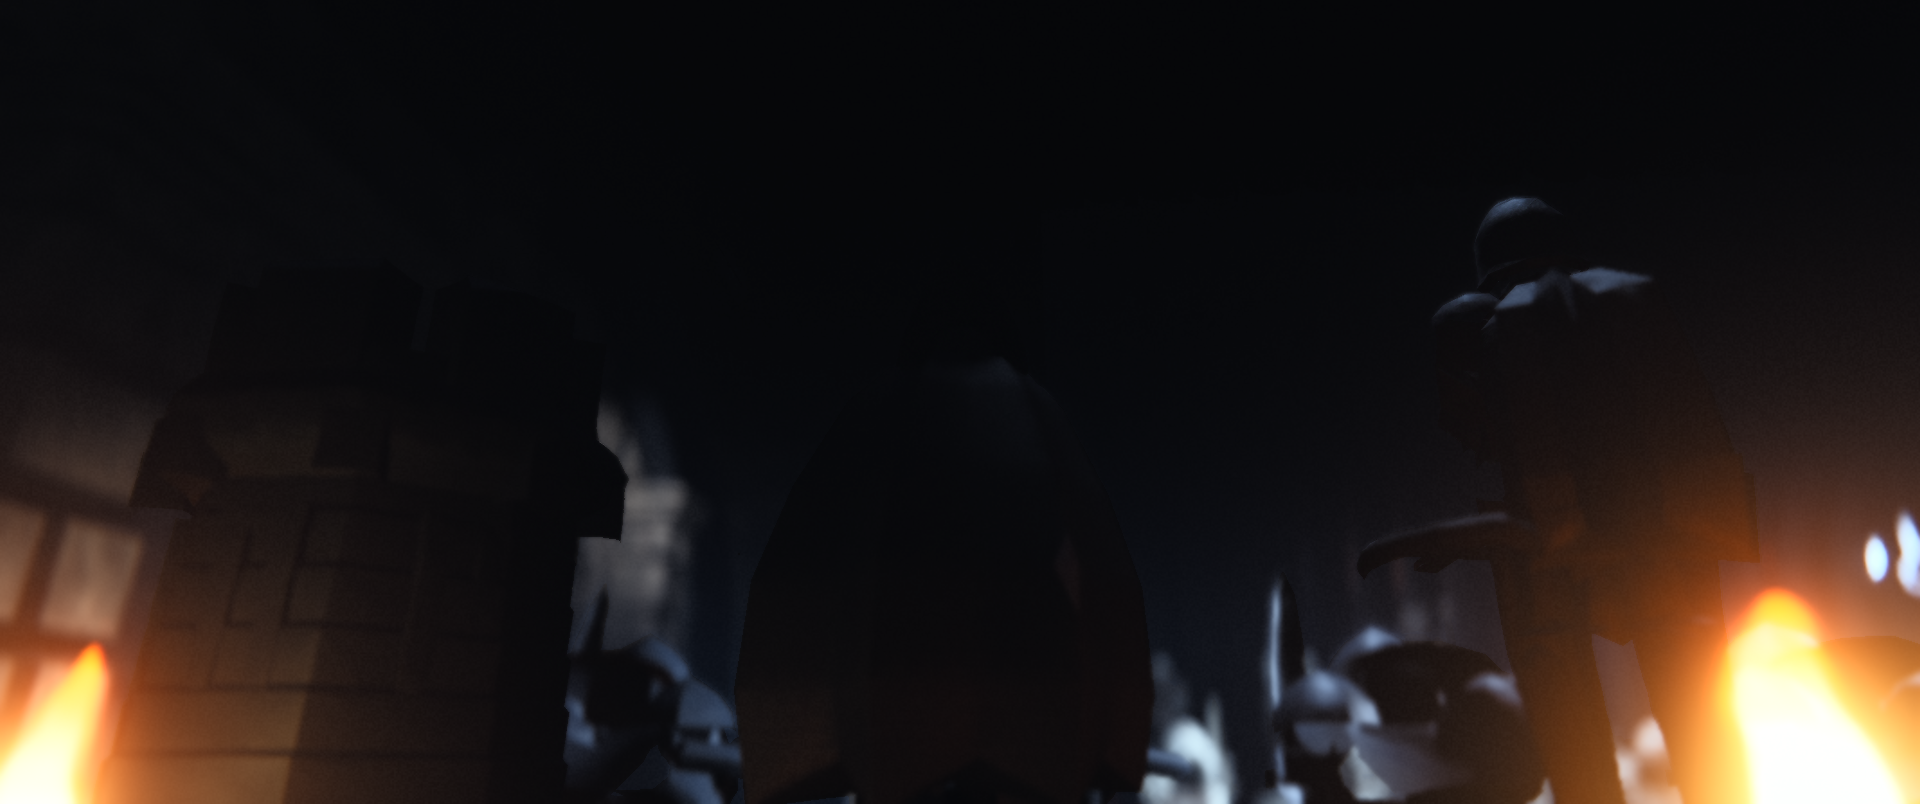
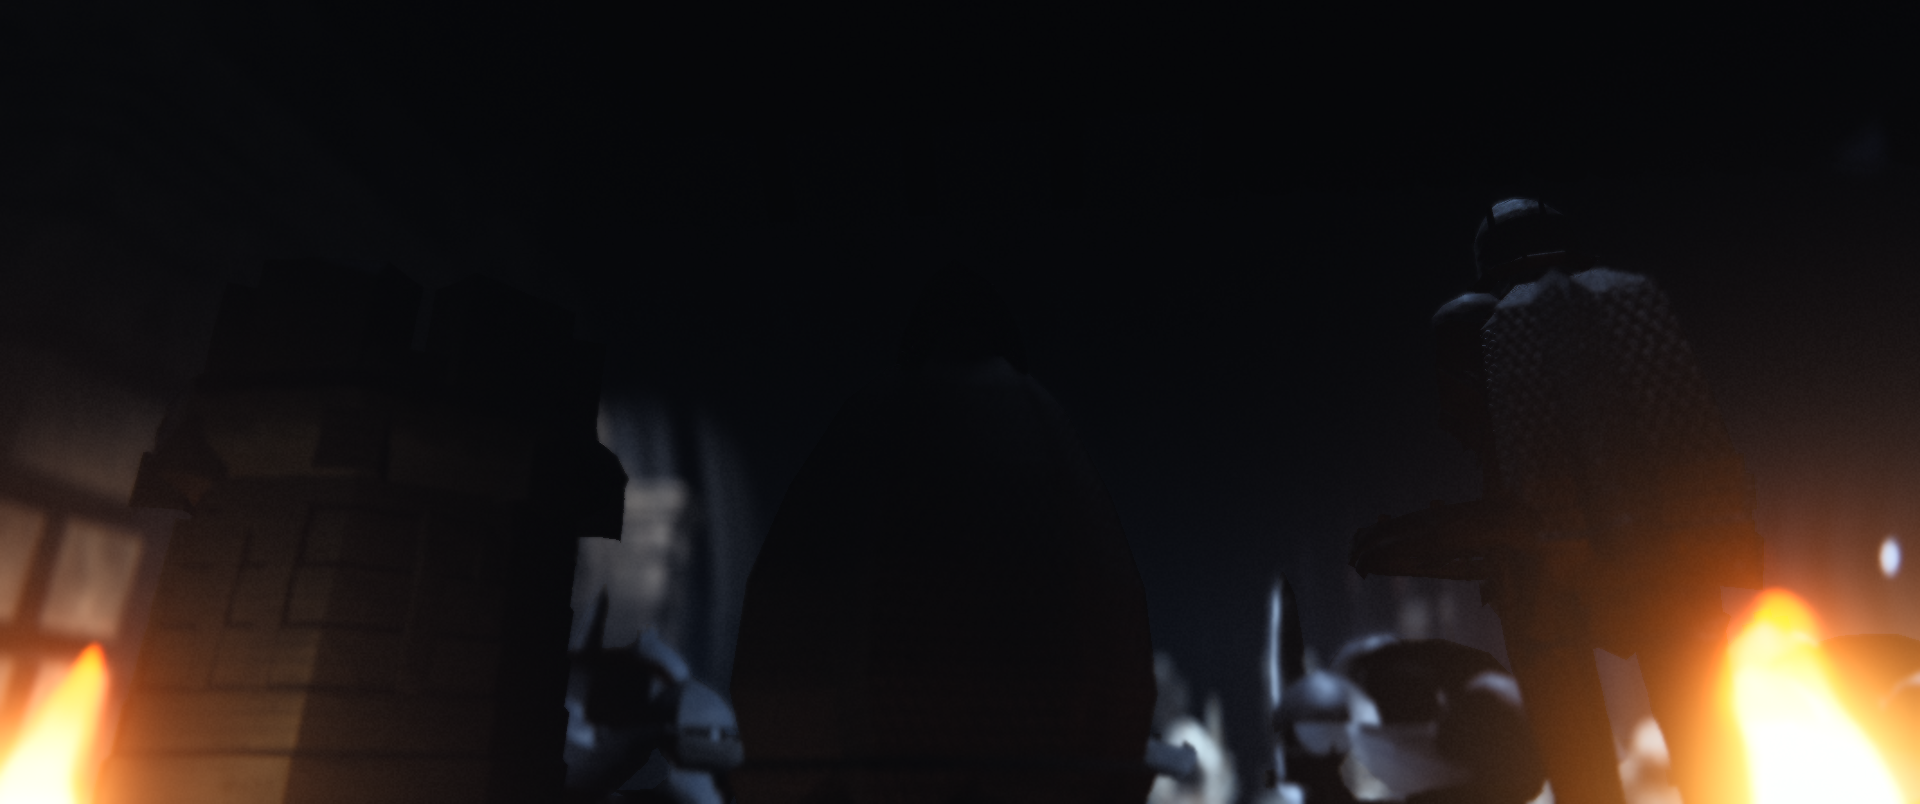
Agent output from rounds in flight
Claude-Session: https://claude.ai/code/session_01YJAdescyxgmhR6GChLDgdh

diff --git a/src/game/interactive.ts b/src/game/interactive.ts
@@ -37,7 +37,7 @@ import type { World } from '../core/world';
 import { RENDER, SQUARE, type PieceType, type Side } from '../core/constants';
 import type { Engine, Move } from '../chess';
 import { STRIKE_CONTACT, STRIKE_RECOVER, WALK_MIN, WALK_PER_SQUARE } from './timeline';
-import { createAffordances, type Mark } from './affordances';
+import { createAffordances, type Affordances, type Mark } from './affordances';
 import { createThinker, type Thought } from './thinker';
 
 /** The human plays White. The engine answers as Black. */
@@ -87,10 +87,30 @@ const TYPE_OF_PROMO: Record<string, PieceType> = {
   q: 'queen', r: 'rook', b: 'bishop', n: 'knight',
 };
 
+/** Everything the markers do, doing nothing. Used only if the real ones fail to build. */
+function nullAffordances(): Affordances {
+  return {
+    group: new THREE.Group(),
+    setSelection() {}, setDestinations() {}, refuse() {}, setCheck() {},
+    setGameOver() {}, showPromotion: () => [], hidePromotion() {},
+    pickables: () => [], update() {}, dispose() {},
+  };
+}
+
 export function createInteractive(world: World, deps: GameDeps, model: BoardModel): Interactive {
   const { engine, state } = model;
-  const aff = createAffordances(world);
-  world.scene.add(aff.group);
+
+  // Priority one is that the engine replies. The markers are worth a great deal, but not
+  // the whole game: if anything in them fails to build (a canvas the browser will not
+  // give us, a texture it will not allocate) play carries on without them.
+  let aff: Affordances;
+  try {
+    aff = createAffordances(world);
+    world.scene.add(aff.group);
+  } catch (err) {
+    console.warn('affordances unavailable, playing without markers:', err);
+    aff = nullAffordances();
+  }
   const think = createThinker();
 
   /** Deferred VISUALS only, on world.time. Board bookkeeping is always immediate. */
@@ -105,6 +125,8 @@ export function createInteractive(world: World, deps: GameDeps, model: BoardMode
   let replyDueAt = -1;
   let thoughtHeld: Thought | null = null;
   let thinkStartedAt = 0;
+  /** Position the in-flight search was started from. A reply for any other is discarded. */
+  let thinkFen = '';
   /** world.time until which something is visibly moving. Drives the shadow throttle. */
   let activeUntil = 0;
 
@@ -339,8 +361,9 @@ export function createInteractive(world: World, deps: GameDeps, model: BoardMode
     replyDueAt = -1;
     thoughtHeld = null;
     thinkStartedAt = realT;
+    thinkFen = engine.fen;
     state.thinking = true;
-    think.start(engine.fen, REPLY_NODES, realT);
+    think.start(thinkFen, REPLY_NODES, realT);
   }
 
   function tryPlayThought(realT: number) {
@@ -354,6 +377,9 @@ export function createInteractive(world: World, deps: GameDeps, model: BoardMode
 
     thoughtHeld = null;
     state.thinking = false;
+    // The board may have been replaced under the search (setPosition). A move found for
+    // some other position is not an answer to this one, however legal it happens to be.
+    if (engine.fen !== thinkFen) return;
     if (!th.uci) { model.syncState(); refreshMarks(); return; }
     // Re-resolve against our own live engine: the worker sent back text, not trust.
     const m = engine.moves().find((c) => c.uci === th.uci);
@@ -457,6 +483,7 @@ export function createInteractive(world: World, deps: GameDeps, model: BoardMode
       promoPending = null;
       aff.hidePromotion();
       thoughtHeld = null;
+      thinkFen = '';
       state.thinking = false;
       refreshMarks();
       scheduleReply();

diff --git a/src/chamber/piers.ts b/src/chamber/piers.ts
@@ -65,9 +65,17 @@ const BEND_K = 0.285;
 const BEND_E = 1.50;
 const TOP = 13.8;
 
-/** Above this a pier is a silhouette; above the second it is nothing. */
-const DARK_START = 5.0;
-const DARK_FULL = 11.4;
+/**
+ * Above this a pier is a silhouette; above the second it is nothing.
+ *
+ * Both sit well above the screens' 4.2 / 9.6. A near pier subtends four times the frame
+ * height of a shaft on the screen behind it, so the screens' fall — which is complete
+ * inside three metres — reads on one of these as a painted band across the frame, and it
+ * takes the whole upper half of the outer thirds to black before the top of frame is
+ * anywhere near.
+ */
+const DARK_START = 6.1;
+const DARK_FULL = 13.6;
 
 function smooth(a: number, b: number, x: number): number {
   const t = Math.max(0, Math.min(1, (x - a) / (b - a)));
@@ -81,12 +89,14 @@ function lean(y: number): number {
 /**
  * Per-vertex tone for the near piers.
  *
- * Cut well below the screens'. These are the nearest stone to both the camera and the
- * kerb fires, and at the screens' albedo they came out as a pale warm wall down one side
- * of the frame — the exact opposite of the reference, where the near columns are a dark
- * mass with firelight only catching their edges. The fall into dark also starts lower and
- * finishes higher than the screens', because a near pier subtends four times the frame
- * height of a far one and a short gradient on it reads as a painted band.
+ * A shade ABOVE the screens'. The instinct was the other way — these stand a metre from
+ * the kerb fires and ought to be the best-lit stone in the room — but they are not: they
+ * lean away over the board, so their modelled faces turn up into the air rather than
+ * toward anything that is lit, and at 0.70 of the screens' albedo the whole left third of
+ * the frame measured 0.03 to 0.08 against the film's 0.07 to 0.21. Colossal near stone
+ * that does not READ is worth nothing at all; it is the same black void with a different
+ * silhouette. The one thing kept from that pass is the deep cut in the hollows, which is
+ * what separates one pier from the next and is where the frame's true blacks come from.
  */
 export function makeNearTone(tag: string, seed: number): Tone {
   const s = (hashString(tag) ^ seed) >>> 0;
@@ -94,12 +104,12 @@ export function makeNearTone(tag: string, seed: number): Tone {
   const fine = makeFbm((s ^ 0x27d4eb2f) >>> 0, 3, 2.19, 0.55);
 
   return (x, y, z, fold) => {
-    let v = 0.70 * (1
+    let v = 1.34 * (1
       + 0.24 * broad(x * 0.070, y * 0.048, z * 0.070)
       + 0.13 * fine(x * 0.55, y * 0.27, z * 0.55));
 
     // the hollow between two shafts of a cluster, and the wide slot between two piers
-    v *= 1 - 0.84 * fold * fold;
+    v *= 1 - 0.80 * fold * fold;
 
     // grime off the floor; nothing blooms this close to the fires
     v *= 1 - 0.30 * smooth(2.2, 0.0, y);

diff --git a/src/chamber/index.ts b/src/chamber/index.ts
@@ -219,8 +219,11 @@ export function createChamber(world: World): Chamber {
       // The end wall. Taller than the others because it stands past the vault's
       // springing and has to close the top of the room on its own, and dimmed because
       // it is the one surface in the room that must not resolve.
+      // No blind arcade on it, and cut to a fifth. Everything that reads as a FEATURE at
+      // the end of a room — a band of small arches, a lit recess, a capital catching the
+      // wash — is a statement about where the room stops. This wall may state nothing.
       id: 'east', length: HD * 2, height: H + 8, pierAt: farPiers, pierWidth: 1.9,
-      blindArcade: true, ruin: 0.09, dim: 0.66,
+      blindArcade: false, ruin: 0.06, dim: 0.21,
       place: (g) => { g.position.set(EAST_X, 0, 0); g.rotation.y = -Math.PI / 2; },
       panel: { nx: -1, nz: 0, d: EAST_X - 0.9 },
       foot: (uMin, uMax, losses) => ({
@@ -337,7 +340,8 @@ export function createChamber(world: World): Chamber {
   }
 
   // --- floor ---------------------------------------------------------------------------------
-  const slab = buildFloorSlab(HW, HD);
+  // Both extents now reach past the end wall at EAST_X rather than past CHAMBER.halfWidth.
+  const slab = buildFloorSlab(EAST_X + 3, HD);
   geometries.push(slab.geometry);
   materials.push(slab.material);
   group.add(slab.mesh);
@@ -348,7 +352,7 @@ export function createChamber(world: World): Chamber {
     floorSink,
     world.rng.fork('chamber-floor'),
     makeWeather('chamber-weather-floor', world.seed, 1.2),
-    { halfWidth: HW, halfDepth: HD, boardHalf: BOARD_SIZE / 2 + 0.85, hi },
+    { halfWidth: EAST_X - 3.0, halfDepth: HD, boardHalf: BOARD_SIZE / 2 + 0.85, hi },
   );
   surfaces.push(...floorSink.bake(group, blockGeos, stone, 'chamber-floor', {
     receiveShadow: true,
@@ -417,8 +421,8 @@ export function createChamber(world: World): Chamber {
       screeWeather,
       [{
         ax: -17.0, az: s.sign * (SIDE_Z - 0.75),
-        bx: 19.6, bz: s.sign * (SIDE_Z - 0.75),
-        nx: 0, nz: -s.sign, losses: [], uMin: -17.0, uMax: 19.6,
+        bx: 21.6, bz: s.sign * (SIDE_Z - 0.75),
+        nx: 0, nz: -s.sign, losses: [], uMin: -17.0, uMax: 21.6,
       }],
       hi,
     );

diff --git a/src/pieces/forms.ts b/src/pieces/forms.ts
@@ -598,11 +598,11 @@ function helmCross(
   // family of oriented edges on what was a smooth drum.
   for (let i = 0; i < 6; i++) {
     const a = (i / 6) * Math.PI * 2 + Math.PI / 6;
-    const bx = cx + Math.cos(a) * r * 0.97, bz = cz + Math.sin(a) * r * 0.97;
+    const bx = cx + Math.cos(a) * r * 0.95, bz = cz + Math.sin(a) * r * 0.95;
     slab(
       p,
       V(bx, cy + h * (flat ? 0.52 : 0.46), bz),
-      V(r * 0.048, h * (flat ? 0.30 : 0.24), r * 0.040),
+      V(r * 0.048, h * (flat ? 0.30 : 0.24), r * 0.058),
       quatFromAxes(V(-Math.sin(a), 0, Math.cos(a)), V(0, 1, 0), V(Math.cos(a), 0, Math.sin(a))),
     );
   }
@@ -613,7 +613,7 @@ function helmCross(
       { y: cy + h * 0.904, sx: 1.00, sz: 1.00, ox: cx, oz: cz },
       { y: cy + h * 0.938, sx: 0.88, sz: 0.88, ox: cx, oz: cz },
     ]);
-    rivetRing(p, cx, cy + h * 0.904, cz, r * 1.01, 7, r * 0.050, r * 0.042, 0.21);
+    rivetRing(p, cx, cy + h * 0.904, cz, r * 1.00, 9, r * 0.050, r * 0.042, Math.PI / 9);
   }
   if (flat) {
     p.thinNow = 0.55;
@@ -653,7 +653,7 @@ function kettleHelm(
     slab(p, V(cx, yy, zz), V(r * 0.055, h * 0.075, r * 0.19), new THREE.Quaternion());
   }
   // Rivet row around the brim.
-  rivetRing(p, cx, cy + h * 0.105, cz, r * 1.15, 8, r * 0.070, r * 0.055, Math.PI / 8);
+  rivetRing(p, cx, cy + h * 0.105, cz, r * 1.13, 9, r * 0.068, r * 0.055, Math.PI / 9);
 }
 
 /** A circlet of points over a helm — the royal crown. */
